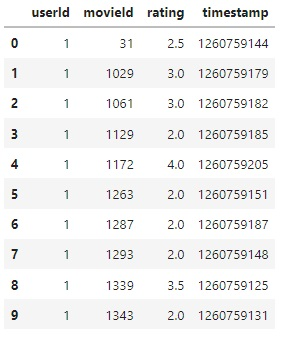
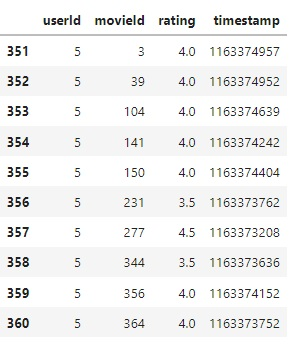
readme and image update

diff --git a/Cluster analysis (unclassified data)/README.md b/Cluster analysis (unclassified data)/README.md
@@ -280,16 +280,37 @@ Latent factors can be defined as properties or concepts that are exhibited by ei
 
 ![SVD](/images/movie/movie14.jpg)
 
-We can use another dataset with userId if we want to do collaborative filtering with SVD.
+We can use another dataset with userId if we want to do collaborative filtering with SVD. Below we can see the first 10 movies rated on scale of 5. I will present the data for userId = 5.
 
 ```
 from surprise import Reader, evaluate, Dataset, SVD
 reader = Reader()
 ratings = pd.read_csv('../input/the-movies-dataset/ratings_small.csv')
-ratings.head(10)
+ratings[ratings['userId'] == 5].head(10)
 ```
 
 ![SVD dataset](/images/movie/movie15.jpg)
+
+I then trained this dataset. I will pick userID = 5 to make predictions on:
+
+```
+ratings[ratings['userId'] == 5]
+```
+
+![User 5 data](/images/movie/movie16.jpg)
+
+
+Then I will make a prediction for userID = 5, and movieID = 1029:
+
+```
+svd.predict(5, 356, 4)
+```
+
+Prediction(uid=5, iid=356, r_ui=4, est=4.1839714326949125, details={'was_impossible': False})
+
+For movie with ID 356, we predict it will have a rating of **4.18**. Recommender system doesn't care what the movie is. The rating prediction algorithm is based on a user's assigned movie ID, and it tries to guess how other users rated the movie.
+
+to learn more about the surprise library: [see the Surprise documentation](https://surprise.readthedocs.io/en/stable/index.html)
 
 <a id="ch90"></a>
 # References
